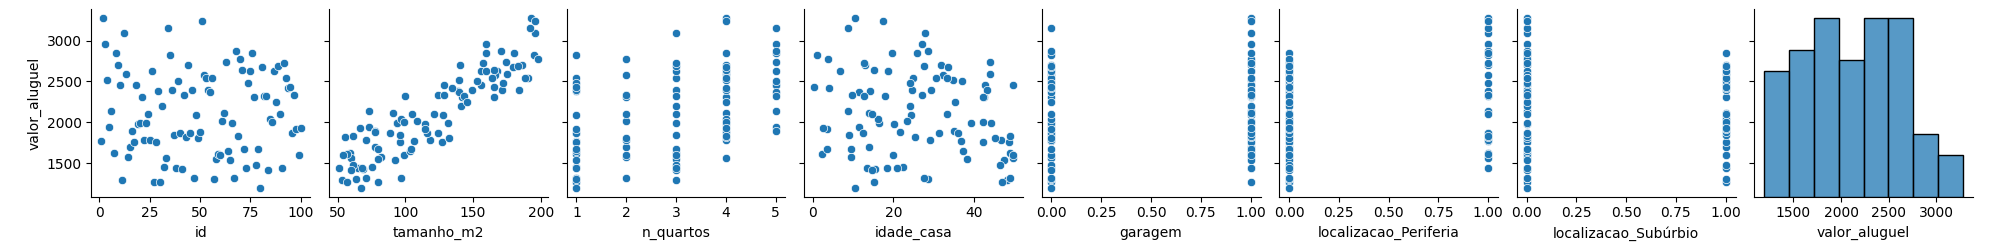
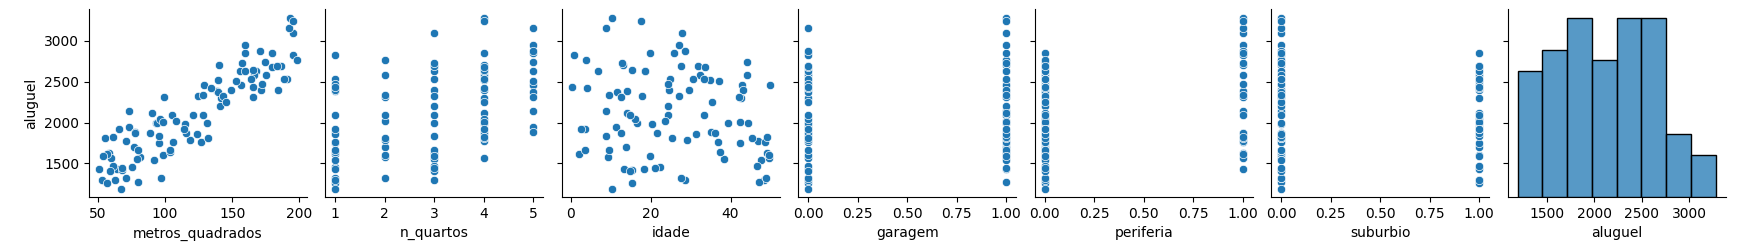
feat: exploratory data analysis

diff --git a/model_aluguel.py b/model_aluguel.py
@@ -12,15 +12,92 @@ from sklearn.metrics import r2_score, root_mean_squared_error
 from sklearn.model_selection import train_test_split
 from sklearn.preprocessing import StandardScaler, OneHotEncoder
 
-# 1: Carregar dados e checar valores faltantes
-# Não há valores nulos ou faltantes
+# 1: Carregar dados e checar valores faltantes.
+# Não há valores nulos ou faltantes.
+# Coluna id será inútil.
 print("Carregar dados")
 df_aluguel = pd.read_csv("./dataset/dataset_aluguel.csv")
 print(df_aluguel.info())
+print("\nRemovendo coluna id...\n")
+df_aluguel.drop(columns=['id'], inplace=True)
+df_aluguel.columns = [
+    'metros_quadrados',
+    'n_quartos',
+    'idade',
+    'garagem',
+    'periferia',
+    'suburbio',
+    'aluguel'
+]
+print(df_aluguel.describe())
 
 # 2: Análise Exploratória dos Dados
+# Não há outliers nos valores
+print("\nAnálise Exploratória.")
 df_aluguel_eda = df_aluguel.copy()
 
-sns.pairplot(data=df_aluguel_eda, y_vars=['valor_aluguel'])
+sns.pairplot(data=df_aluguel_eda, y_vars=['aluguel'])
 plt.savefig("./dataviz/pairplot.png")
+plt.close()
+
+sns.boxplot(data=df_aluguel_eda, x='n_quartos', y='aluguel')
+plt.xlabel("Número de Quartos")
+plt.ylabel("Valor do Aluguel")
+plt.savefig('./dataviz/n-quartos-x-aluguel-boxplot.png')
+plt.close()
+
+sns.boxplot(data=df_aluguel_eda, x='periferia', y='aluguel')
+plt.xlabel("Está na Periferia")
+plt.ylabel("Valor aluguel")
+plt.savefig('./dataviz/periferia-x-aluguel-boxplot.png')
+plt.close()
+
+sns.scatterplot(data=df_aluguel_eda, x='metros_quadrados', y='aluguel')
+plt.xlabel('Metros Quadrados')
+plt.ylabel("Valor do Aluguel")
+plt.savefig("./dataviz/metros-quadrados-x-aluguel-scatter.png")
+plt.close()
+
+sns.boxplot(data=df_aluguel_eda, y='aluguel')
+plt.savefig("./dataviz/aluguel-hist.png")
+plt.close()
+
+sns.heatmap(
+    data=df_aluguel_eda.corr("pearson"), 
+    vmin=-1,
+    vmax=1,
+    annot=True,
+    cmap='crest'    
+)
+plt.savefig("./dataviz/pearson-corr-heatmap.png")
+plt.close()
+
+sns.heatmap(
+    data=df_aluguel_eda.corr("spearman"), 
+    vmin=-1,
+    vmax=1,
+    annot=True,
+    cmap='crest'    
+)
+plt.savefig("./dataviz/spearman-corr-heatmap.png")
+plt.close()
+
+sns.heatmap(
+    data=df_aluguel_eda.corr("pearson")[['aluguel']].sort_values(by='aluguel', ascending=False), 
+    vmin=-1,
+    vmax=1,
+    annot=True,
+    cmap='crest'    
+)
+plt.savefig("./dataviz/aluguel-pearson-corr-heatmap.png")
+plt.close()
+
+sns.heatmap(
+    data=df_aluguel_eda.corr("spearman")[['aluguel']].sort_values(by='aluguel', ascending=False), 
+    vmin=-1,
+    vmax=1,
+    annot=True,
+    cmap='crest'    
+)
+plt.savefig("./dataviz/aluguel-spearman-corr-heatmap.png")
 plt.close()
